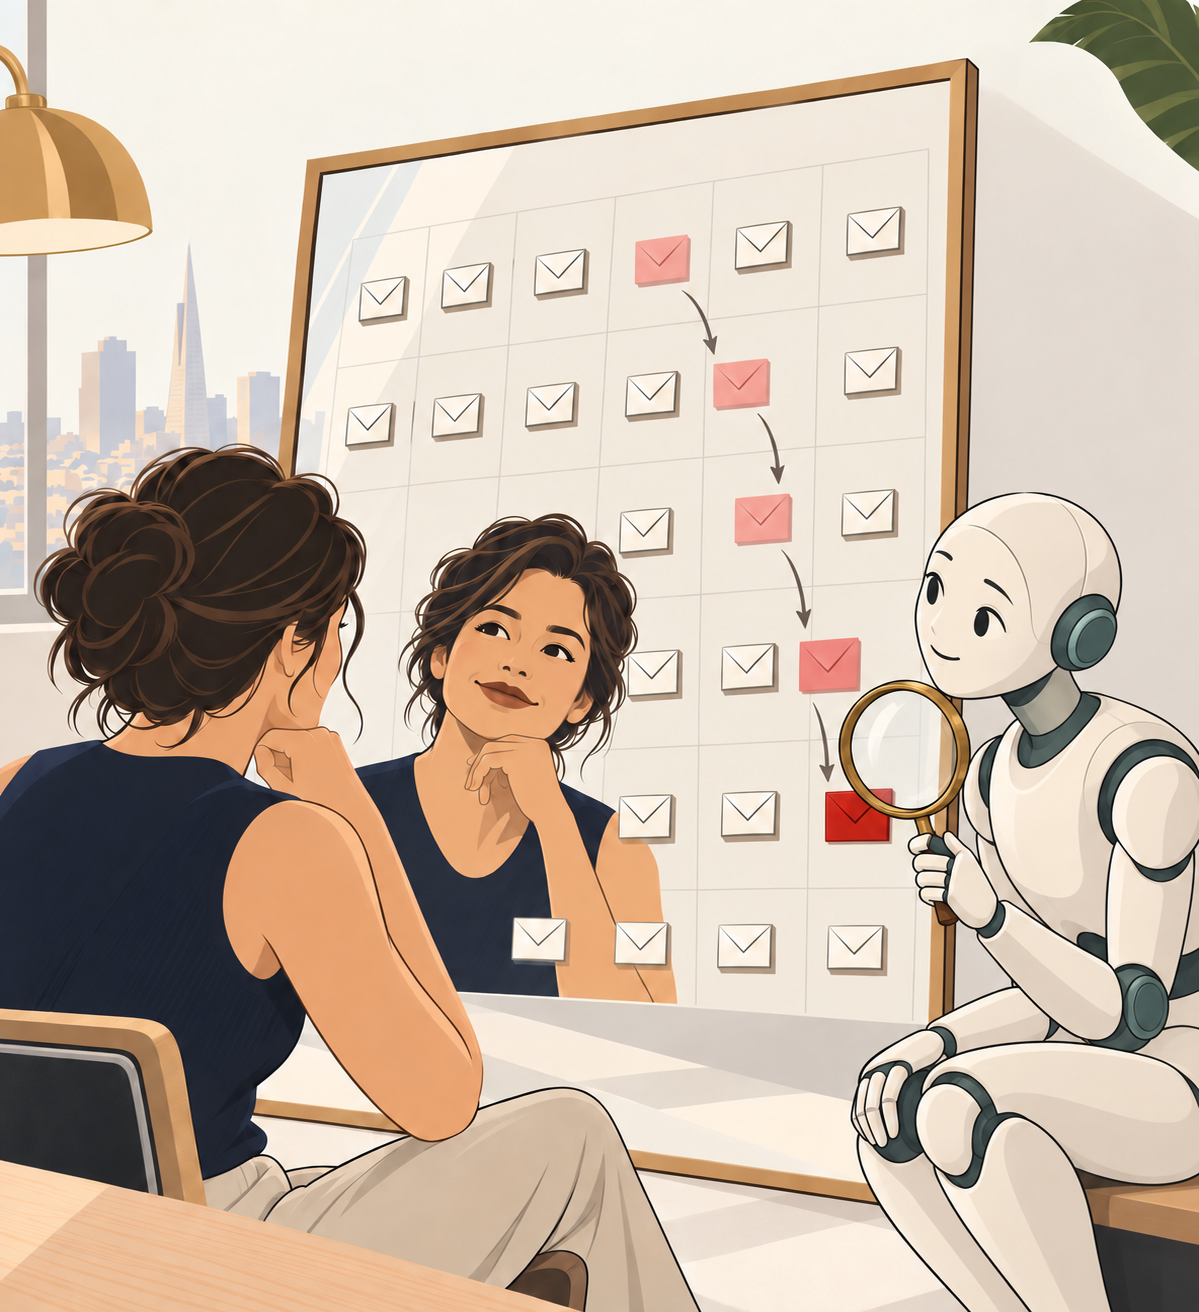
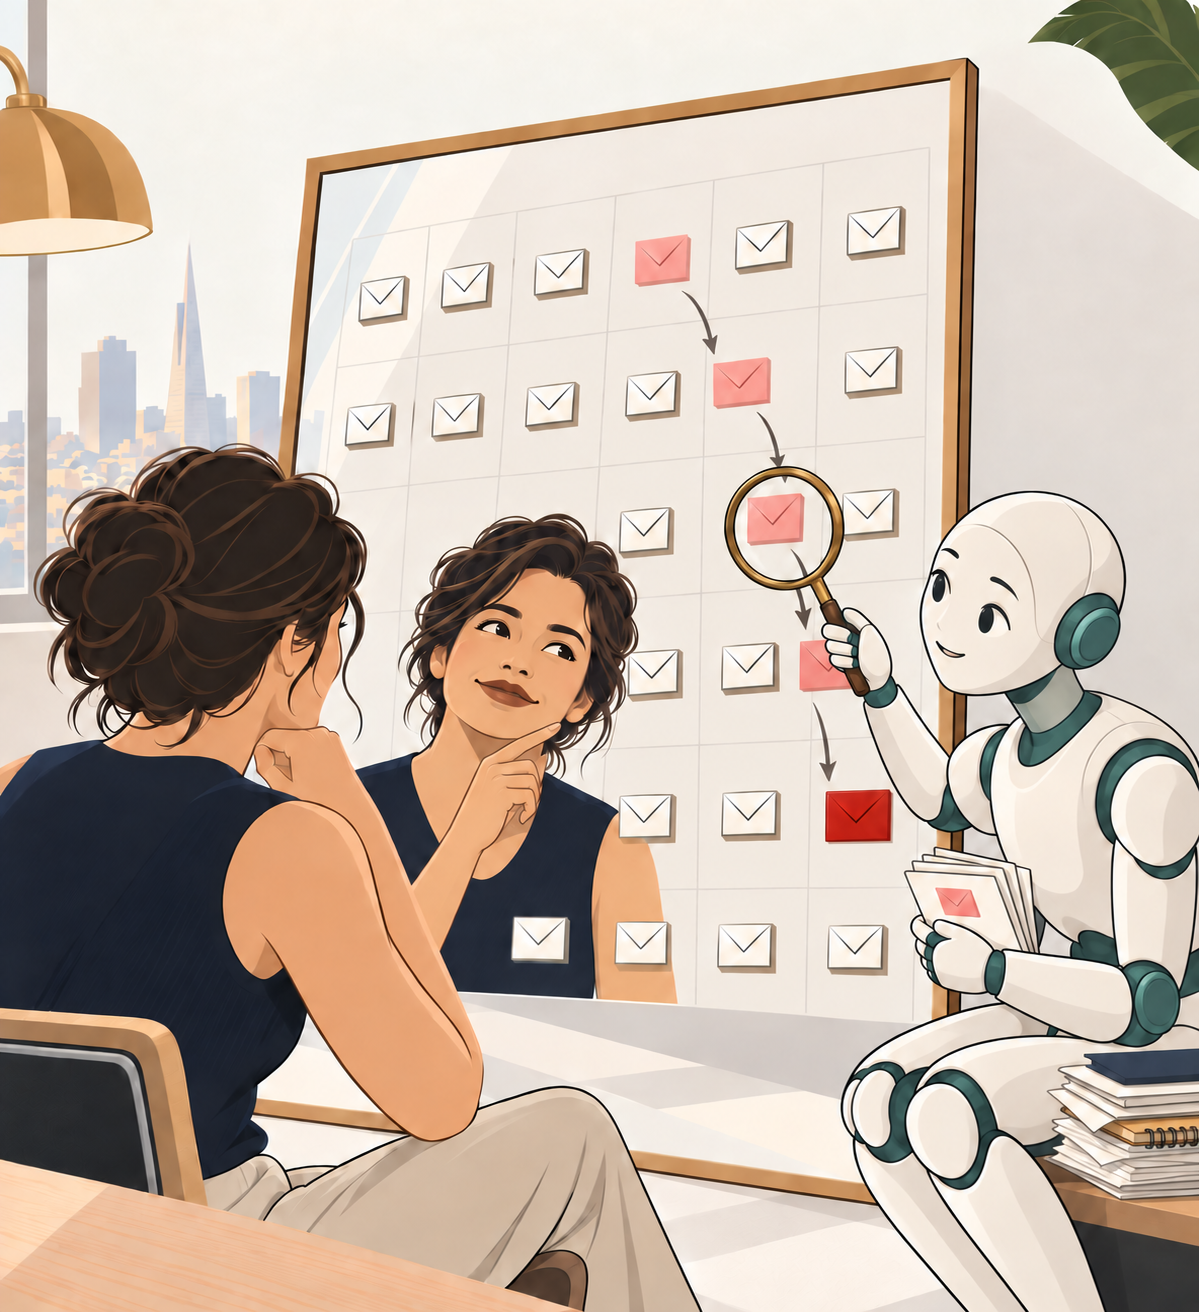
Clarify evidence-to-insight collaboration and preserve robot character

diff --git a/index.html b/index.html
@@ -249,7 +249,7 @@
     <section class="spread spread--soft" id="explaining" data-dk-register="Explaining" aria-labelledby="explaining-title">
       <div class="meta"><img src="assets/logo-dk-box.svg" alt=""><span>Register 03 / Explaining</span><span class="datum">05</span></div>
       <div class="section-head"><span class="kicker">Picture talks</span><div><h2 id="explaining-title">Show the relationship.</h2><p class="dek">A framework gives the idea shape. An editorial image makes it easier to remember.</p></div></div>
-      <div class="explaining-demo"><div><h3>Reflection can change what we <span class="underline-word">see<svg viewBox="0 0 100 15" preserveAspectRatio="none" aria-hidden="true"><path d="M2 11 C25 7 64 12 98 5"/></svg></span>.</h3><p>The mirror gives a human moment to an abstract idea: looking again, with help nearby. The person remains the subject. The humanoid robot stays slightly smaller—about shoulder height—and supports the person’s thinking.</p><p class="image-note">OPEN THE IMAGE TO SEE IT FULL SIZE →</p></div><figure class="image-frame"><a href="assets/illustration-mirror.png" target="_blank" rel="noopener" aria-label="Open mirror illustration at full size"><img src="assets/illustration-mirror.png" alt="Editorial illustration of a woman reflecting in a mirror, with a smaller friendly robot nearby" loading="lazy"></a><figcaption><strong>Mirror metaphor.</strong> A human scene gives the reflection idea emotional clarity.</figcaption></figure></div>
+      <div class="explaining-demo"><div><h3>Evidence can change what we <span class="underline-word">see<svg viewBox="0 0 100 15" preserveAspectRatio="none" aria-hidden="true"><path d="M2 11 C25 7 64 12 98 5"/></svg></span>.</h3><p>AI can sift through what we have recorded and help us notice a pattern we could not see alone. Here, the robot gathers the evidence; the woman recognizes what it means for her. The human owns the insight and decides what to do with it.</p><p class="image-note">OPEN THE IMAGE TO SEE IT FULL SIZE →</p></div><figure class="image-frame"><a href="assets/illustration-mirror.png" target="_blank" rel="noopener" aria-label="Open mirror illustration at full size"><img src="assets/illustration-mirror.png" alt="A woman recognizes a personal pattern in a mirror calendar as a humanoid robot helps connect her collected information" loading="lazy"></a><figcaption><strong>Mirror metaphor.</strong> From scattered information to a pattern a person can recognize in herself.</figcaption></figure></div>
     </section>
 
     <section class="spread spread--white" id="visual-thinking" data-dk-register="Explaining" aria-labelledby="visual-thinking-title">
@@ -266,7 +266,7 @@
     <section class="spread spread--soft" id="human-picture" data-dk-register="Explaining" aria-labelledby="human-picture-title">
       <div class="meta"><img src="assets/logo-dk-box.svg" alt=""><span>The human picture</span><span class="datum">07</span></div>
       <div class="section-head"><span class="kicker">Editorial illustration</span><div><h2 id="human-picture-title">Let people carry the meaning.</h2><p class="dek">Warmth comes from a recognizable moment of work: a gesture, a shared focus, a choice made together.</p></div></div>
-      <div class="visual-story visual-story--reverse"><figure class="image-frame"><a href="assets/illustration-collaboration.png" target="_blank" rel="noopener" aria-label="Open collaboration illustration at full size"><img src="assets/illustration-collaboration.png" alt="Flat editorial illustration of people collaborating around a shared idea" loading="lazy"></a><figcaption><strong>Collaboration.</strong> The eye goes to the people and the work between them.</figcaption></figure><div><h3>The scene should help us understand the work.</h3><p>Keep figures simplified and expressive. Use matte color and economical contours. When AI belongs in the story, its humanoid companion stands about shoulder height. Warm off-white, gentle curves, small teal accents, and an attentive expression make its supporting role clear. The human always leads.</p><p>Give the illustration a claim to carry. If it only makes the page feel busy, take it out.</p></div></div>
+      <div class="visual-story visual-story--reverse"><figure class="image-frame"><a href="assets/illustration-collaboration.png" target="_blank" rel="noopener" aria-label="Open collaboration illustration at full size"><img src="assets/illustration-collaboration.png" alt="Flat editorial illustration of people collaborating around a shared idea" loading="lazy"></a><figcaption><strong>Collaboration.</strong> The eye goes to the people and the work between them.</figcaption></figure><div><h3>The scene should help us understand the work.</h3><p>Keep figures simplified and expressive. Use matte color and economical contours. When AI belongs in the story, its humanoid companion stands about shoulder height. Warm off-white, gentle curves, small warm blue-green teal accents, and an attentive expression make its supporting role clear. Keep this robot’s design consistent across images; adapt the people and setting to the client. The human always leads.</p><p>Give the illustration a claim to carry. If it only makes the page feel busy, take it out.</p></div></div>
     </section>
 
     <section class="spread spread--white" id="grounds" data-dk-register="Working" aria-labelledby="grounds-title">
